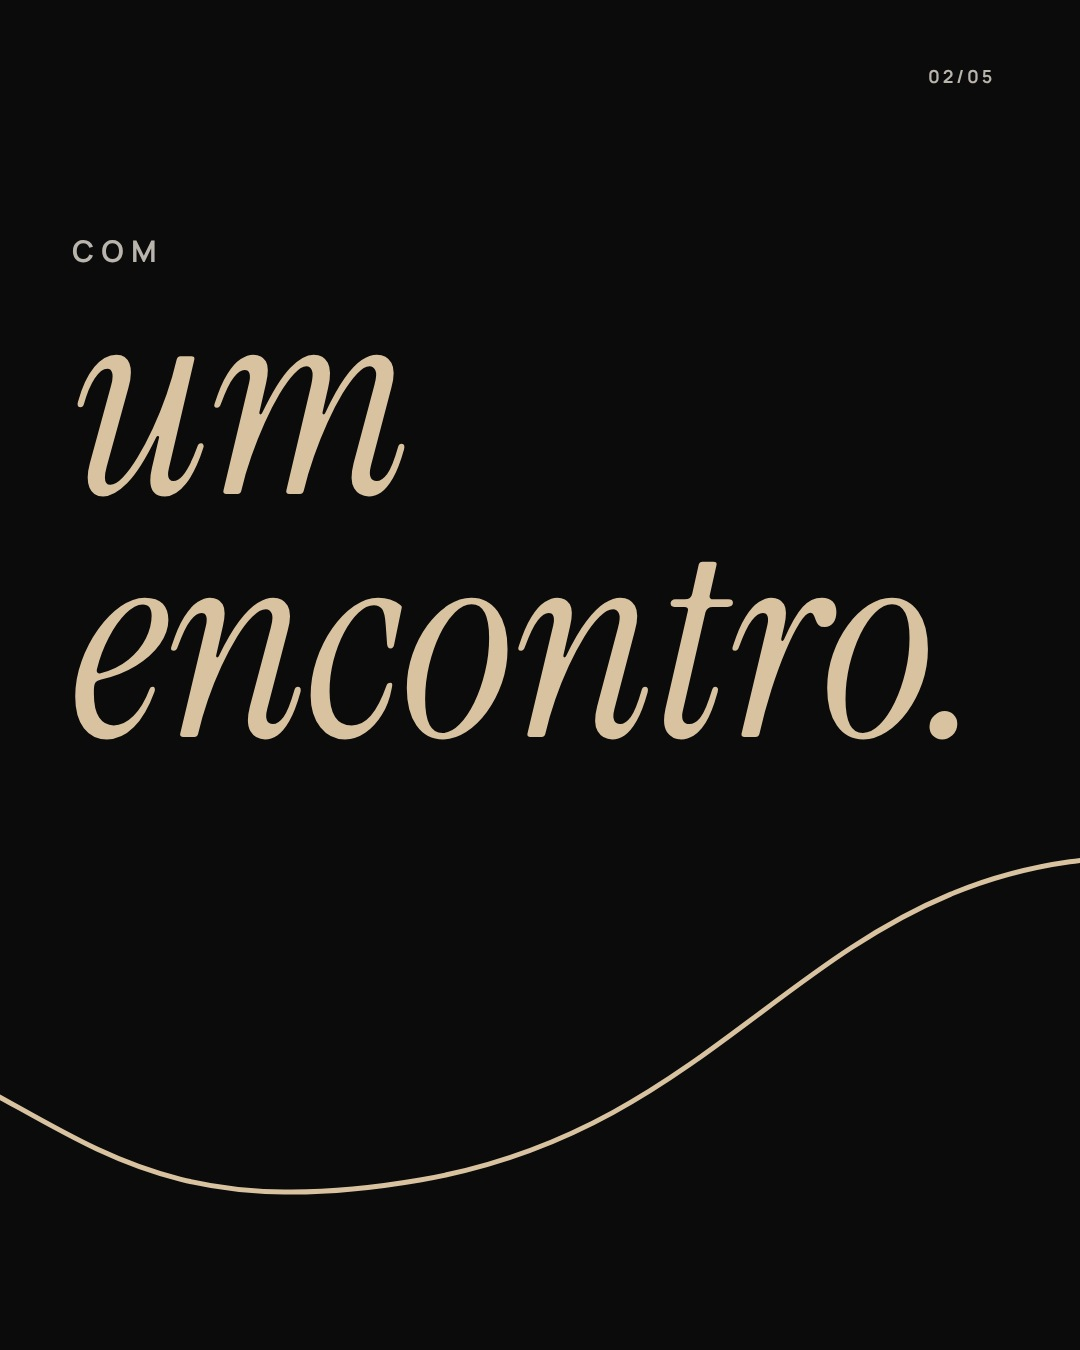
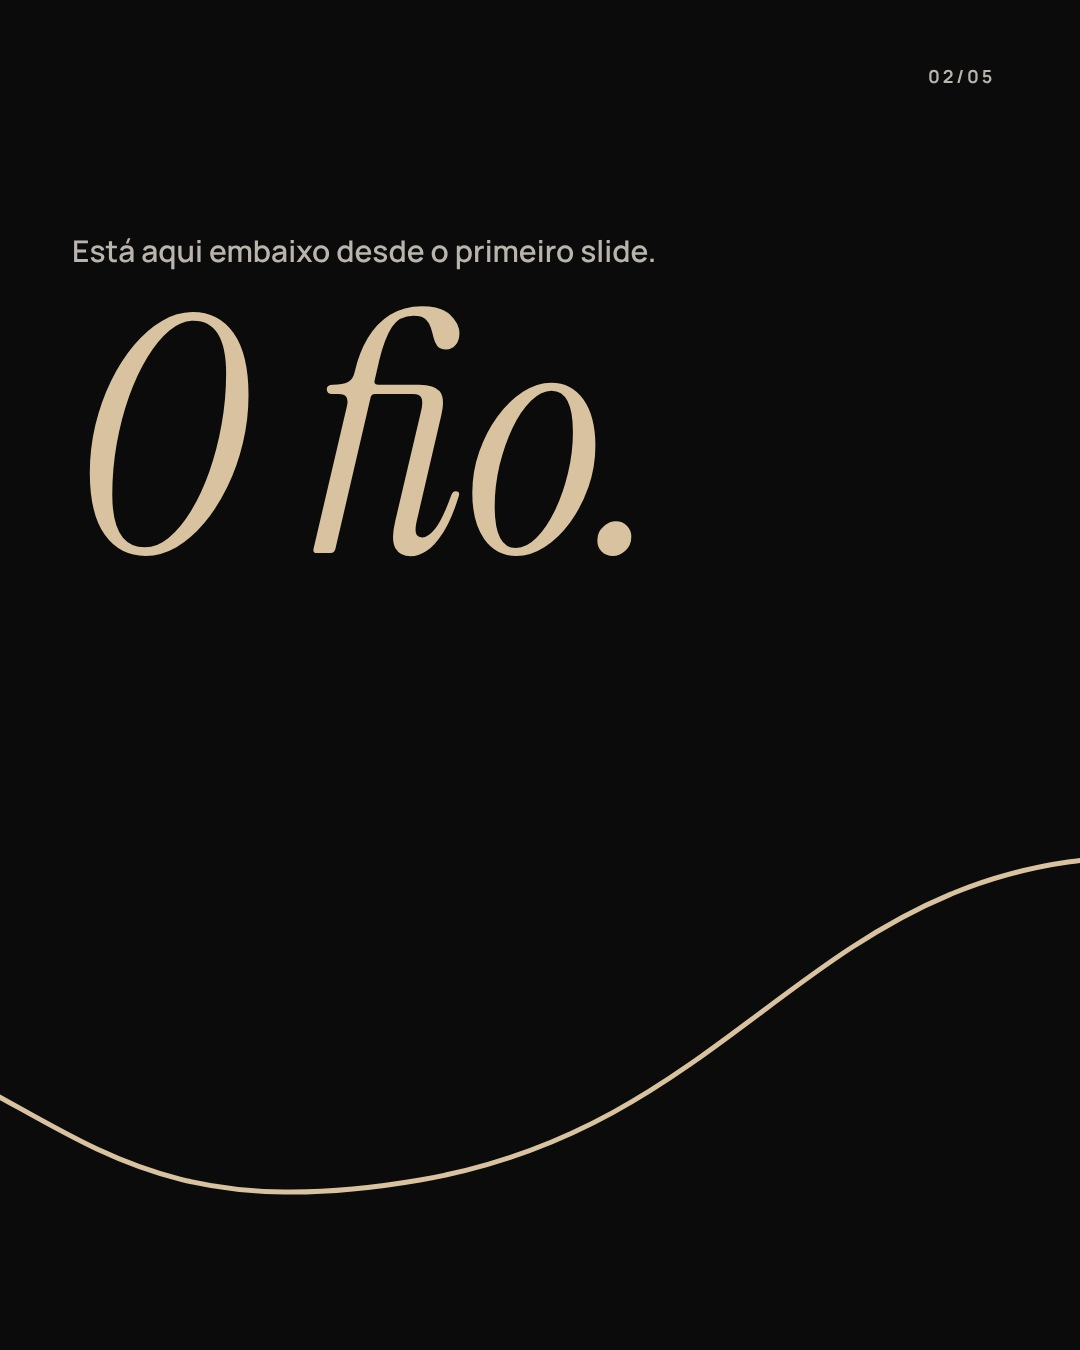
Ajusta o texto do carrossel de abertura
Novo gancho no primeiro slide e final em suspense, sem pergunta.

Claude-Session: https://claude.ai/code/session_01LGdnfNDA78AqzYTg2AVm2S

Changed region(s): [[0.0611, 0.1556, 0.8861, 0.56], [0.8556, 0.5289, 0.8861, 0.56]]

diff --git a/social-media/instagram/2026-11-abertura/panorama.html b/social-media/instagram/2026-11-abertura/panorama.html
@@ -1,0 +1,52 @@
+<div style="position: relative; width: 5400px; height: 1350px; background: #0B0B0C; color: #F5F3EF; font-family: 'Manrope', sans-serif; overflow: hidden">
+<div style="position: absolute; left: 2160px; top: 0; width: 1080px; height: 1350px; background: #D8C2A0"></div>
+<svg width="5400" height="1350" viewBox="0 0 5400 1350" style="position: absolute; left: 0; top: 0" aria-hidden="true">
+<defs><clipPath id="c3"><rect x="2160" y="0" width="1080" height="1350"></rect></clipPath><clipPath id="nc3"><path d="M0 0H2160V1350H0Z M3240 0H5400V1350H3240Z"></path></clipPath></defs>
+<path id="fio" d="M -20 1180 C 300 1180, 500 940, 820 1000 S 1150 1240, 1500 1180 S 1900 820, 2300 860 S 2900 1000, 3240 820 S 3600 1220, 3950 1100 S 4400 700, 4590 640" fill="none" stroke="#D8C2A0" stroke-width="5" stroke-linecap="round" clip-path="url(#nc3)"></path>
+<path d="M -20 1180 C 300 1180, 500 940, 820 1000 S 1150 1240, 1500 1180 S 1900 820, 2300 860 S 2900 1000, 3240 820 S 3600 1220, 3950 1100 S 4400 700, 4590 640" fill="none" stroke="#0B0B0C" stroke-width="5" stroke-linecap="round" clip-path="url(#c3)"></path>
+<circle cx="4760" cy="640" r="170" fill="none" stroke="#D8C2A0" stroke-width="5"></circle>
+<circle cx="4960" cy="640" r="170" fill="none" stroke="#D8C2A0" stroke-width="5"></circle>
+<circle cx="820" cy="1000" r="16" fill="#D8C2A0"></circle>
+<circle cx="3950" cy="1100" r="16" fill="#D8C2A0"></circle>
+</svg>
+<!-- marcadores -->
+<div style="position: absolute; left: 852px; top: 935px; font-size: 22px; font-weight: 700; letter-spacing: .22em; text-transform: uppercase; color: #D8C2A0">a criadora</div>
+<div style="position: absolute; left: 3982px; top: 1130px; font-size: 22px; font-weight: 700; letter-spacing: .22em; text-transform: uppercase; color: #D8C2A0">a marca</div>
+<!-- numeração -->
+<div style="position: absolute; left: 0; top: 64px; width: 5400px; height: 40px">
+<div style="position: absolute; left: 928px; font-size: 18px; font-weight: 700; letter-spacing: .16em; color: #B9B4AC">01/05</div>
+<div style="position: absolute; left: 2008px; font-size: 18px; font-weight: 700; letter-spacing: .16em; color: #B9B4AC">02/05</div>
+<div style="position: absolute; left: 3088px; font-size: 18px; font-weight: 700; letter-spacing: .16em; color: #3B3328">03/05</div>
+<div style="position: absolute; left: 4168px; font-size: 18px; font-weight: 700; letter-spacing: .16em; color: #B9B4AC">04/05</div>
+<div style="position: absolute; left: 5248px; font-size: 18px; font-weight: 700; letter-spacing: .16em; color: #B9B4AC">05/05</div>
+</div>
+<!-- S1 -->
+<div style="position: absolute; left: 72px; top: 58px; display: flex; flex-direction: column; gap: 5px">
+<div style="font-size: 26px; font-weight: 600; letter-spacing: .22em; line-height: 1">MAK</div>
+<div style="font-size: 10px; font-weight: 600; letter-spacing: .62em; line-height: 1">CONNECT</div>
+</div>
+<div style="position: absolute; left: 72px; top: 250px; width: 940px">
+<div style="font-size: 124px; font-weight: 800; line-height: .98; letter-spacing: -.045em">Tem algo que nenhum <span style="font-family: 'Instrument Serif', serif; font-style: italic; font-weight: 400; color: #D8C2A0; letter-spacing: 0">publi</span> mostra.</div>
+</div>
+<!-- S2 -->
+<div style="position: absolute; left: 1152px; top: 230px; width: 940px">
+<div style="font-size: 30px; font-weight: 600; line-height: 1.4; color: #B9B4AC; max-width: 640px">Está aqui embaixo desde o primeiro slide.</div>
+<div style="font-family: 'Instrument Serif', serif; font-style: italic; font-weight: 400; font-size: 330px; line-height: .9; color: #D8C2A0; margin-top: 20px">O fio.</div>
+</div>
+<!-- S3 -->
+<div style="position: absolute; left: 2232px; top: 220px; width: 940px; color: #0B0B0C">
+<div style="font-size: 96px; font-weight: 800; line-height: 1.02; letter-spacing: -.035em">Entre quem cria e quem acredita, é ele que <span style="font-family: 'Instrument Serif', serif; font-style: italic; font-weight: 400; letter-spacing: 0">segura tudo.</span></div>
+</div>
+<!-- S4 -->
+<div style="position: absolute; left: 3312px; top: 230px; width: 940px">
+<div style="font-size: 104px; font-weight: 800; line-height: 1; letter-spacing: -.04em">Ele é invisível.</div>
+<div style="font-size: 104px; font-weight: 800; line-height: 1; letter-spacing: -.04em; margin-top: 14px">Até alguém <span style="font-family: 'Instrument Serif', serif; font-style: italic; font-weight: 400; color: #D8C2A0; letter-spacing: 0">cuidar</span> dele.</div>
+</div>
+<!-- S5 -->
+<div style="position: absolute; left: 4392px; top: 150px; font-family: 'Instrument Serif', serif; font-style: italic; font-size: 150px; line-height: 1; color: #F5F3EF">Prazer.</div>
+<div style="position: absolute; left: 4392px; top: 880px; width: 936px; display: flex; flex-direction: column; align-items: center; gap: 10px">
+<div style="font-size: 92px; font-weight: 600; letter-spacing: .22em; line-height: 1; padding-left: .22em">MAK</div>
+<div style="font-size: 30px; font-weight: 600; letter-spacing: .62em; line-height: 1; padding-left: .62em">CONNECT</div>
+</div>
+<div style="position: absolute; left: 4392px; top: 1150px; width: 936px; text-align: center; font-family: 'Instrument Serif', serif; font-style: italic; font-weight: 400; font-size: 40px; color: #D8C2A0">O resto, a gente conta em breve.</div>
+</div>

diff --git a/social-media/instagram/2026-11-abertura/legenda.md b/social-media/instagram/2026-11-abertura/legenda.md
@@ -5,27 +5,23 @@ Imagens em `public/social/instagram/2026-11-abertura/`.
 
 | Slide | Tema | Endereço público |
 |---|---|---|
-| 1 | Prazer, MAK CONNECT | `https://makconnect.netlify.app/social/instagram/2026-11-abertura/slide-01.jpg` |
-| 2 | Dois lados, uma conexão | `https://makconnect.netlify.app/social/instagram/2026-11-abertura/slide-02.jpg` |
-| 3 | Boutique por escolha e valores | `https://makconnect.netlify.app/social/instagram/2026-11-abertura/slide-03.jpg` |
-| 4 | O que vem por aí e chamada para o direct | `https://makconnect.netlify.app/social/instagram/2026-11-abertura/slide-04.jpg` |
+| 1 | Tem algo que nenhum publi mostra. |
+| 2 | Está aqui embaixo desde o primeiro slide. O fio. |
+| 3 | Entre quem cria e quem acredita, é ele que segura tudo. |
+| 4 | Ele é invisível. Até alguém cuidar dele. |
 
 Status: aprovado, aguardando publicação. Publicar antes da série "Mercado de influência".
 
 ## Legenda
 
 ```
+Tem algo que nenhum publi mostra.
+
+Não aparece no feed. Não entra no briefing. Ninguém posta. Mas é o que segura toda parceria que dá certo entre quem cria e quem acredita.
+
 Prazer, MAK CONNECT.
 
-Somos uma assessoria de influenciadoras digitais com base em São Paulo. Nosso trabalho é conectar dois lados: criadoras que querem tratar a carreira como negócio e marcas que buscam parcerias autênticas, bem geridas do início ao fim.
+O resto, a gente conta em breve.
 
-Fazemos isso de um jeito diferente. Aqui, a influenciadora fica no centro, sem exclusividade e com acompanhamento próximo. Para as marcas, oferecemos curadoria precisa, briefing alinhado, prazos cumpridos e um único ponto de contato.
-
-Somos boutique por escolha: carteira enxuta, gestão dedicada, qualidade em vez de volume.
-
-Por aqui você vai encontrar dados do mercado de influência, conteúdo sobre carreira de criadora e caminhos para marcas investirem melhor.
-
-Influenciadora ou marca? Chame no direct. E siga @mak.connect para acompanhar.
-
-#makconnect #assessoriadeinfluenciadoras #marketingdeinfluencia #influenciadoras #marcas #creatoreconomy
+#makconnect #marketingdeinfluencia #influenciadoras #creatoreconomy
 ```
